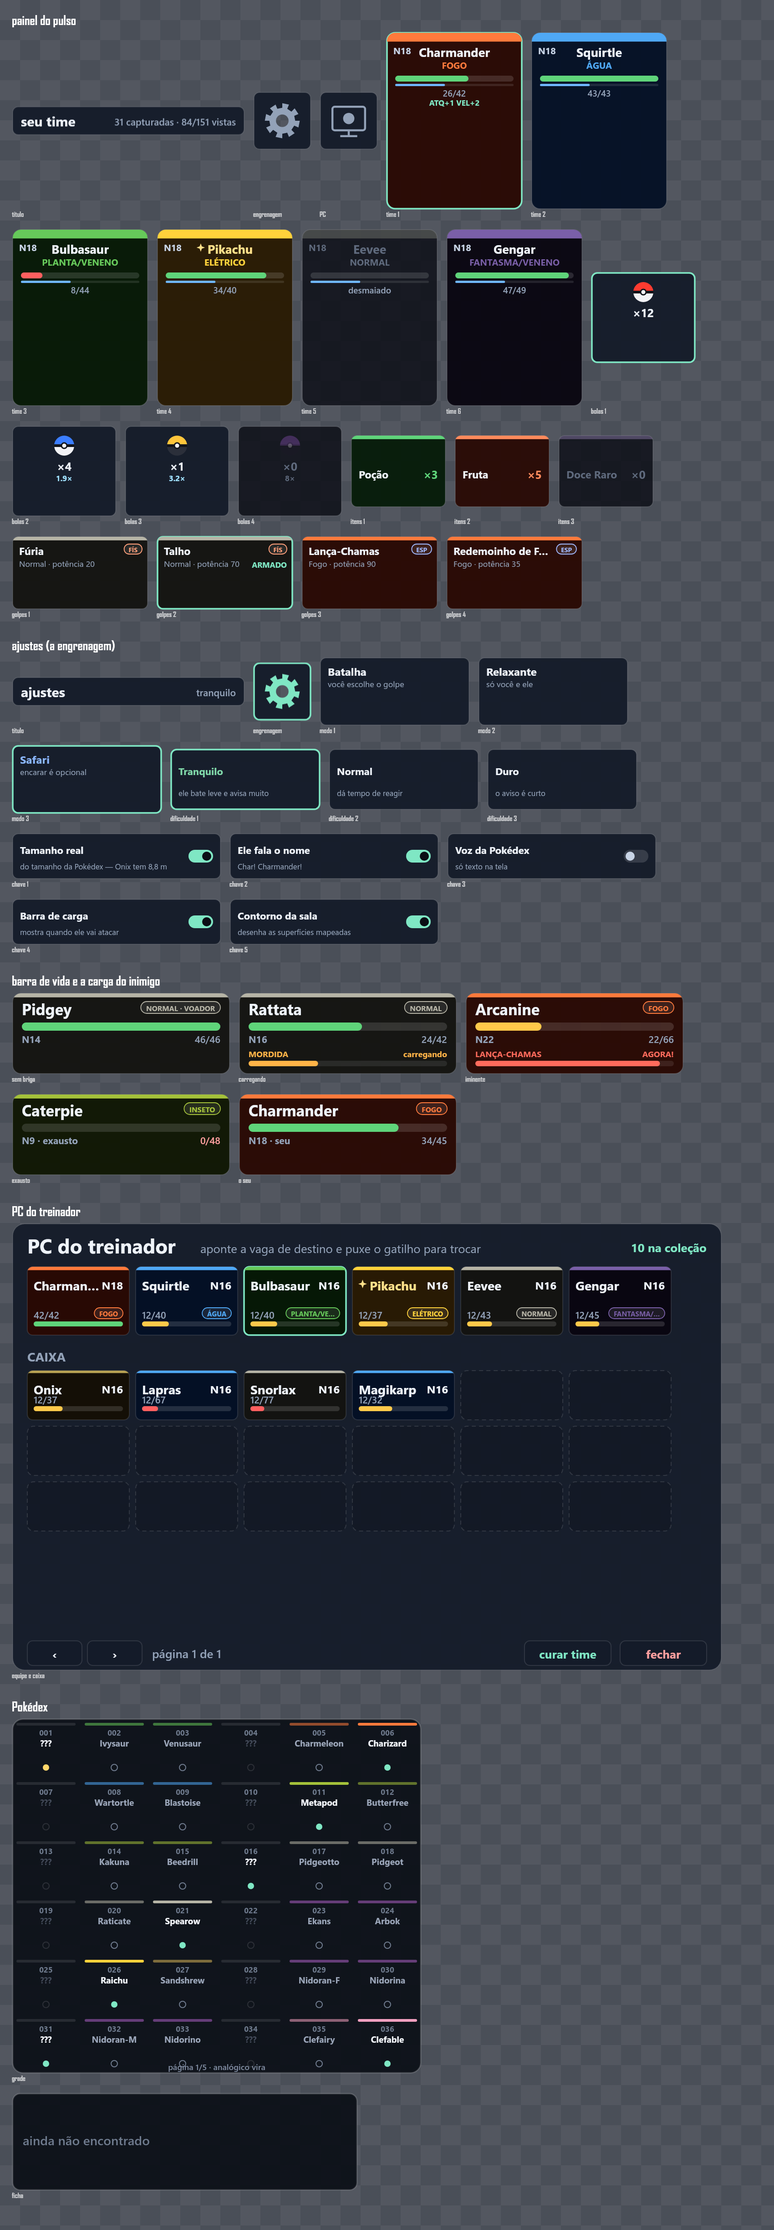
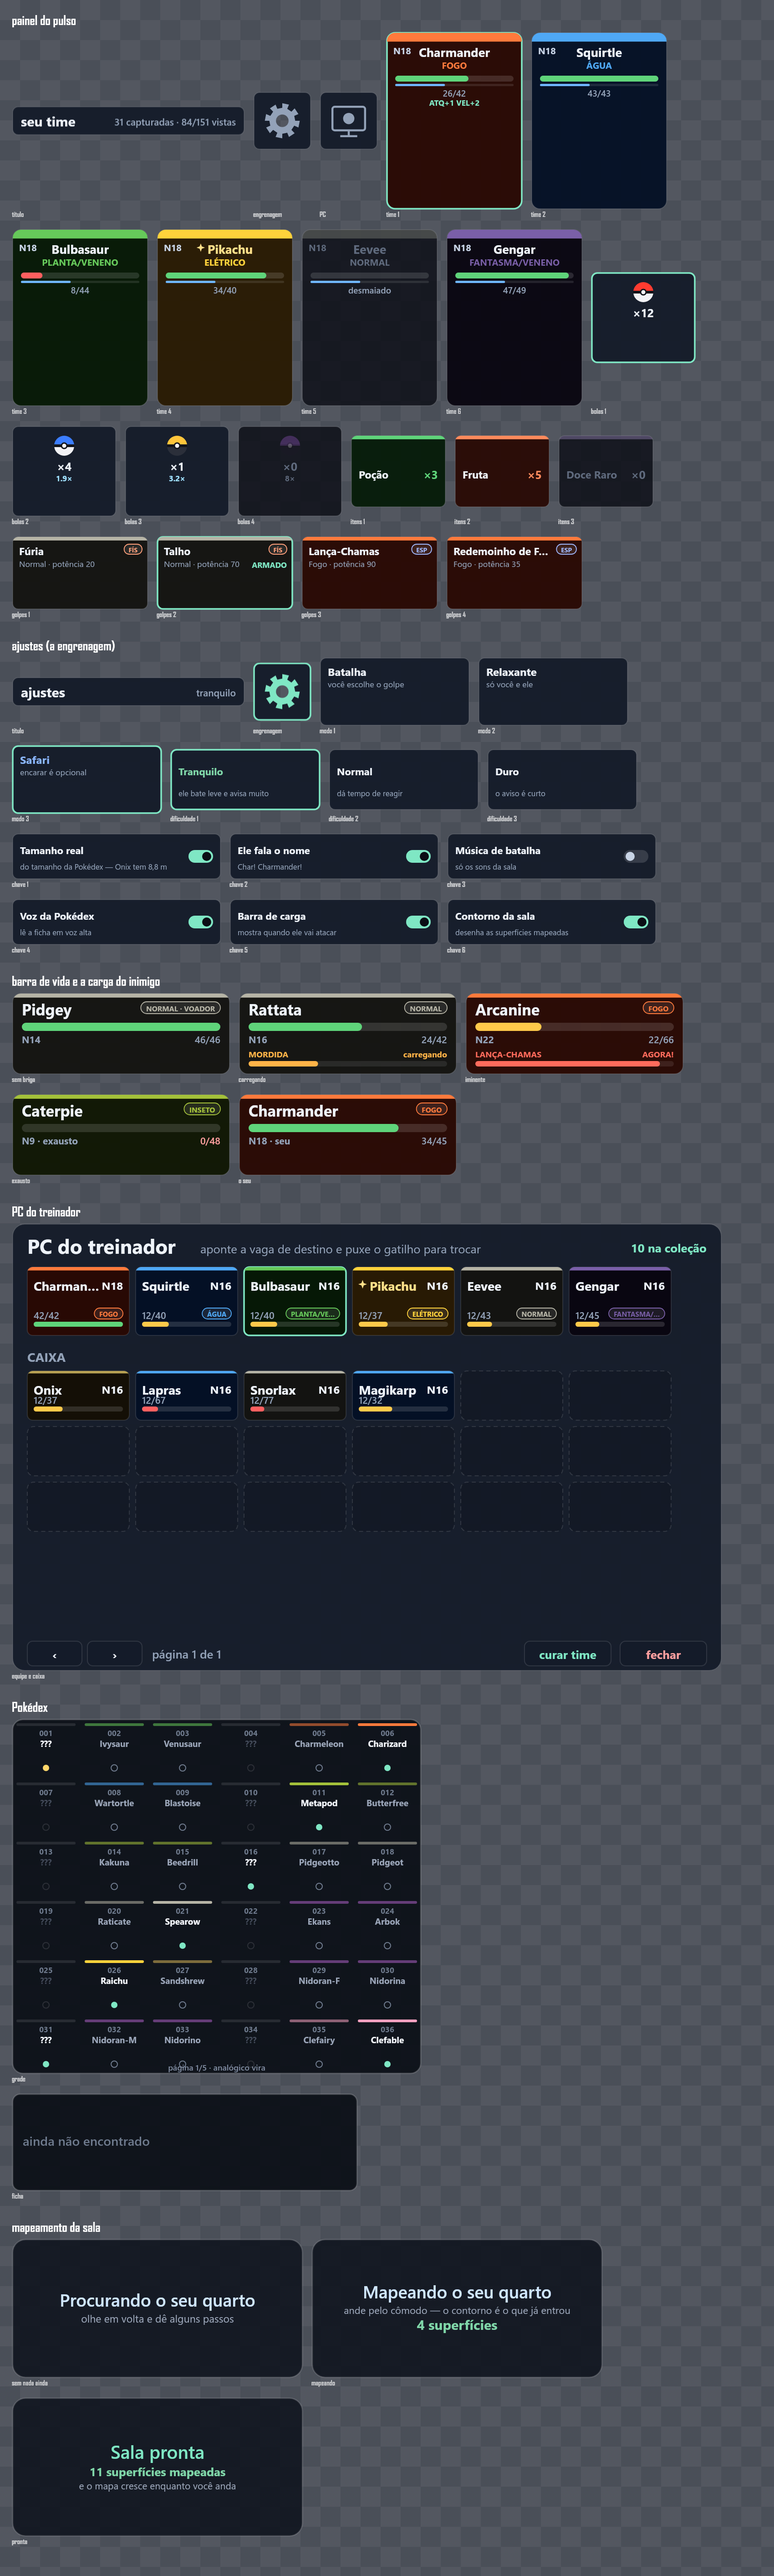
A sala antes do jogo: o mapeamento vira a abertura da sessão
O mapeamento sempre existiu e sempre foi automático — e invisível, que para
quem está de headset é o mesmo que não existir. A queixa foi literalmente "não
vi a função de escanear o ambiente": não havia o que ver além de uma linha de
contagem no painel do pulso, e o desenho das superfícies nasce desligado.

Agora a sessão começa pelo quarto. O contorno acende sozinho, cada superfície
nova dá um clique, e o número sobe na frente do jogador com um pedido para
andar pelo cômodo. Termina em seis superfícies — quem tem o Space Setup feito
passa direto, sem nem ler o aviso; quem não tem anda meia dúzia de passos, que
é o que o mapa precisa para deixar de ser um quadrado em volta da pessoa. Nada
em oito segundos também encerra: sem plano e sem chão, insistir só deixa
alguém parado olhando um zero.

A leitura da sala subiu para antes da escolha do parceiro. O quarto é o
tabuleiro, e medir enquanto você lê a tela é tempo de mapeamento de graça —
antes o laço saía cedo na escolha inicial e não media nada durante ela.

- `Sala.mostrarContorno` acende o desenho sem passar pelo interruptor da
  engrenagem, e a abertura devolve a preferência ao sair.
- `Aviso.fixar`/`soltar` seguram uma placa sem contagem regressiva, para o que
  acaba quando a coisa acaba e não quando o relógio bate.
- `npm run paineis` ganhou as três telas da abertura: o aviso é a placa mais
  estreita do jogo, e frase comprida nele não estoura — o canvas ESPREME a
[…]

diff --git a/src/game.ts b/src/game.ts
@@ -83,6 +83,21 @@ const DISTANCIA_DE_SUMICO = 9;
 /** Só a bola comum recarrega sozinha; as outras vêm de capturas. */
 const RECARGA_BOLA_COMUM = 5;
 const ALCANCE_BATALHA = 4.5;
+
+/**
+ * O mapeamento de boas-vindas, em superfícies e em segundos.
+ *
+ * Seis superfícies é pouco de propósito: quem tem o Space Setup feito entrega
+ * isso no primeiro quadro e passa direto, sem nem ler o aviso — e quem não tem
+ * anda meia dúzia de passos, que é exatamente o que o mapa precisa para deixar
+ * de ser um quadrado em volta de você. O teto de quarenta e cinco segundos
+ * existe para quem está num lugar que o headset não entende: o jogo começa
+ * assim mesmo, com o piso que acompanha o jogador.
+ */
+const SUPERFICIES_PARA_COMECAR = 6;
+const ESCANEAMENTO_MAXIMO = 45;
+/** Piso de tempo, só para o aviso dar tempo de ser lido. */
+const ESCANEAMENTO_MINIMO = 2.5;
 /** Fora de campo, cada Pokémon recupera 1 de HP a cada tanto de segundos. */
 const SEGUNDOS_POR_HP = 2.5;
 /** Perto o bastante para a mão encostar no companheiro e fazer carinho. */
@@ -197,6 +212,11 @@ export class Jogo {
   private marcaDeAlvo = new MarcaDeAlvo();
   private proximoSpawn = 2;
   private tempoLeituraSala = 0;
+  /** O mapeamento de boas-vindas, que roda uma vez no começo da sessão. */
+  private escaneando = true;
+  private tempoEscaneando = 0;
+  /** A última contagem já escrita no aviso, para não reescrever à toa. */
+  private mapeadasNoAviso = -1;
   private acumuladoCura = 0;
   private posicaoJogador = new THREE.Vector3();
 
@@ -2106,18 +2126,14 @@ export class Jogo {
     const agora = performance.now();
     this.camera.getWorldPosition(this.posicaoJogador);
 
-    // Antes de qualquer coisa: sem um parceiro você não batalha, e sem batalhar
-    // capturar é quase impossível. A escolha vem primeiro e segura o resto.
-    if (!this.dex.escolheuInicial) {
-      this.atualizarEscolhaInicial(dt, agora);
-      this.aviso.atualizar(dt, this.camera);
-      return;
-    }
-
     // A sala é remedida enquanto você anda: cada leitura carimba o chão sob os
     // seus pés e soma os planos novos que entraram no campo de visão. A cada um
     // terço de segundo é mais do que suficiente — andando depressa, isso dá uma
     // amostra a cada meio metro, e a célula do mapa tem oitenta centímetros.
+    //
+    // Isto vem antes de tudo, inclusive da escolha do parceiro: o quarto é o
+    // tabuleiro, e medir enquanto você lê a tela é tempo de mapeamento de
+    // graça.
     this.tempoLeituraSala -= dt;
     if (this.tempoLeituraSala <= 0) {
       this.tempoLeituraSala = 0.34;
@@ -2126,6 +2142,22 @@ export class Jogo {
         this.renderer.xr.getReferenceSpace(),
         this.posicaoJogador,
       );
+    }
+
+    // O quarto vem antes do jogo. Enquanto o mapa não tem o bastante, a única
+    // coisa que acontece é você andar e ver a sala se desenhar.
+    if (this.escaneando) {
+      this.atualizarEscaneamento(dt, agora);
+      this.aviso.atualizar(dt, this.camera);
+      return;
+    }
+
+    // Antes de qualquer coisa: sem um parceiro você não batalha, e sem batalhar
+    // capturar é quase impossível. A escolha vem primeiro e segura o resto.
+    if (!this.dex.escolheuInicial) {
+      this.atualizarEscolhaInicial(dt, agora);
+      this.aviso.atualizar(dt, this.camera);
+      return;
     }
 
     if (this.bonusFruta > 0) this.bonusFruta -= dt;
@@ -2184,6 +2216,89 @@ export class Jogo {
   }
 
   /** A vitrine dos iniciais, enquanto você não escolheu. */
+  /**
+   * O mapeamento de boas-vindas: a sala acesa, a contagem subindo e um pedido
+   * para você andar.
+   *
+   * O mapeamento sempre existiu e sempre foi automático — e era invisível, que
+   * é o mesmo que não existir para quem está de headset. Aqui ele só ganha
+   * corpo: o contorno acende sozinho, cada superfície nova dá um clique, e o
+   * número na sua frente é a prova de que andar está servindo para alguma
+   * coisa. Passada a abertura, o contorno volta a obedecer a engrenagem e o
+   * mapa continua crescendo calado, como sempre.
+   */
+  private atualizarEscaneamento(dt: number, agora: number) {
+    if (this.tempoEscaneando === 0) this.sala.mostrarContorno(true);
+    this.tempoEscaneando += dt;
+
+    // Sem isto a mão congela no ar durante a abertura.
+    for (const mao of this.maos) {
+      if (!mao.conectada) continue;
+      mao.amostrar(agora);
+      mao.atualizarLuva(dt);
+    }
+
+    const mapeadas = this.sala.mapeadas;
+    if (mapeadas !== this.mapeadasNoAviso) {
+      if (this.mapeadasNoAviso >= 0) audio.clique();
+      this.mapeadasNoAviso = mapeadas;
+      this.aviso.fixar(
+        mapeadas === 0
+          ? [
+              { texto: 'Procurando o seu quarto', tamanho: 38, cor: '#cfe6ff' },
+              {
+                texto: 'olhe em volta e dê alguns passos',
+                tamanho: 23,
+                cor: '#9aa5b8',
+                peso: 500,
+              },
+            ]
+          : [
+              { texto: 'Mapeando o seu quarto', tamanho: 38, cor: '#cfe6ff' },
+              {
+                texto: 'ande pelo cômodo — o contorno é o que já entrou',
+                tamanho: 22,
+                cor: '#9aa5b8',
+                peso: 500,
+              },
+              {
+                texto: `${mapeadas} ${mapeadas === 1 ? 'superfície' : 'superfícies'}`,
+                tamanho: 30,
+                cor: '#7fd6a8',
+                peso: 700,
+              },
+            ],
+      );
+    }
+
+    const bastante =
+      mapeadas >= SUPERFICIES_PARA_COMECAR && this.tempoEscaneando >= ESCANEAMENTO_MINIMO;
+    // Nada em oito segundos é resposta: o aparelho não está entregando plano
+    // nem chão, e insistir só deixa a pessoa parada olhando um número zerado.
+    const semSensores = mapeadas === 0 && this.tempoEscaneando >= 8;
+    if (!bastante && !semSensores && this.tempoEscaneando < ESCANEAMENTO_MAXIMO) return;
+
+    this.escaneando = false;
+    // O contorno volta a ser o que a engrenagem manda: a abertura tomou ele
+    // emprestado, não mudou a preferência de ninguém.
+    this.sala.mostrarContorno(this.ajustes.contornoDaSala);
+    this.aviso.soltar();
+    audio.sucesso();
+    this.aviso.mostrar(
+      [
+        { texto: 'Sala pronta', tamanho: 40, cor: '#7fe7c4' },
+        { texto: `${mapeadas} superfícies mapeadas`, tamanho: 26, cor: '#7fd6a8', peso: 700 },
+        {
+          texto: 'e o mapa cresce enquanto você anda',
+          tamanho: 21,
+          cor: '#9aa5b8',
+          peso: 500,
+        },
+      ],
+      2.6,
+    );
+  }
+
   private atualizarEscolhaInicial(dt: number, agora: number) {
     if (!this.escolha) {
       if (!this.carregandoEscolha) {

diff --git a/src/hud.ts b/src/hud.ts
@@ -109,6 +109,9 @@ export class Aviso {
   readonly placa = new Placa(0.46, 0.22, 640);
   private restante = 0;
   private duracao = 1;
+  /** Aviso fixo: fica até alguém soltar. Ver `fixar`. */
+  private preso = false;
+  private opacidadePresa = 0;
 
   constructor(private readonly cena: THREE.Object3D) {
     this.placa.malha.visible = false;
@@ -122,7 +125,39 @@ export class Aviso {
     this.placa.malha.visible = true;
   }
 
+  /**
+   * Um aviso que FICA, sem contagem regressiva.
+   *
+   * O `mostrar` serve para o que tem hora de acabar; isto é para o que dura o
+   * tempo que durar — o mapeamento da sala, que termina quando o quarto for
+   * conhecido, não quando o relógio bater. Quem fixou é quem solta.
+   *
+   * Reescrever enquanto está fixo troca o texto sem reiniciar a entrada: é o
+   * que deixa a contagem de superfícies subir sem a placa piscar a cada número.
+   */
+  fixar(linhas: LinhaTexto[], opcoes?: Parameters<Placa['escrever']>[1]) {
+    this.placa.escrever(linhas, opcoes);
+    if (!this.preso) this.opacidadePresa = 0;
+    this.preso = true;
+    this.placa.malha.visible = true;
+  }
+
+  soltar() {
+    if (!this.preso) return;
+    this.preso = false;
+    this.restante = 0;
+    this.opacidadePresa = 0;
+    this.placa.malha.visible = false;
+  }
+
   atualizar(dt: number, camera: THREE.Camera) {
+    if (this.preso) {
+      this.acompanhar(dt, camera);
+      this.opacidadePresa = Math.min(1, this.opacidadePresa + dt * 4);
+      this.placa.opacidade = this.opacidadePresa;
+      return;
+    }
+
     if (this.restante <= 0) return;
     this.restante -= dt;
     if (this.restante <= 0) {
@@ -130,12 +165,17 @@ export class Aviso {
       return;
     }
 
-    const alvo = new THREE.Vector3(0, -0.1, -0.9).applyMatrix4(camera.matrixWorld);
-    this.placa.malha.position.lerp(alvo, Math.min(1, dt * 7));
-    this.placa.malha.quaternion.copy(camera.quaternion);
+    this.acompanhar(dt, camera);
 
     const t = this.restante / this.duracao;
     this.placa.opacidade = Math.min(Math.min(1, (1 - t) * 6), Math.min(1, t * 4));
+  }
+
+  /** A placa persegue um ponto à frente do rosto, sem grudar nele. */
+  private acompanhar(dt: number, camera: THREE.Camera) {
+    const alvo = new THREE.Vector3(0, -0.1, -0.9).applyMatrix4(camera.matrixWorld);
+    this.placa.malha.position.lerp(alvo, Math.min(1, dt * 7));
+    this.placa.malha.quaternion.copy(camera.quaternion);
   }
 
   descartar() {

diff --git a/tools/paineis.ts b/tools/paineis.ts
@@ -27,7 +27,7 @@ import { createCanvas, type Canvas } from '@napi-rs/canvas';
 };
 
 const [
-  { BarraVida },
+  { BarraVida, Aviso },
   { PainelTime },
   { PainelPc },
   { PainelDex },
@@ -239,6 +239,53 @@ const secoes: Array<{ titulo: string; pecas: Peca[] }> = [];
     pecas.push({ canvas: (painel.ficha as { canvas: Canvas }).canvas, rotulo: 'ficha' });
   }
   secoes.push({ titulo: 'Pokédex', pecas });
+}
+
+// --- o mapeamento de boas-vindas ---
+//
+// As três telas da abertura, lado a lado. É a conferência que importa aqui:
+// o aviso é a placa mais estreita do jogo, e frase comprida nele não estoura —
+// o canvas ESPREME a linha para caber, que é pior, porque passa despercebido
+// no código e só aparece como texto achatado no headset.
+{
+  const cenaFalsa = { add() {}, remove() {} } as never;
+  const telas: Array<[string, unknown[]]> = [
+    [
+      'sem nada ainda',
+      [
+        { texto: 'Procurando o seu quarto', tamanho: 38, cor: '#cfe6ff' },
+        { texto: 'olhe em volta e dê alguns passos', tamanho: 23, cor: '#9aa5b8', peso: 500 },
+      ],
+    ],
+    [
+      'mapeando',
+      [
+        { texto: 'Mapeando o seu quarto', tamanho: 38, cor: '#cfe6ff' },
+        {
+          texto: 'ande pelo cômodo — o contorno é o que já entrou',
+          tamanho: 22,
+          cor: '#9aa5b8',
+          peso: 500,
+        },
+        { texto: '4 superfícies', tamanho: 30, cor: '#7fd6a8', peso: 700 },
+      ],
+    ],
+    [
+      'pronta',
+      [
+        { texto: 'Sala pronta', tamanho: 40, cor: '#7fe7c4' },
+        { texto: '11 superfícies mapeadas', tamanho: 26, cor: '#7fd6a8', peso: 700 },
+        { texto: 'e o mapa cresce enquanto você anda', tamanho: 21, cor: '#9aa5b8', peso: 500 },
+      ],
+    ],
+  ];
+
+  const pecas: Peca[] = telas.map(([rotulo, linhas]) => {
+    const aviso = espiar(new Aviso(cenaFalsa));
+    aviso.fixar(linhas as never);
+    return { canvas: (aviso.placa as { canvas: Canvas }).canvas, rotulo };
+  });
+  secoes.push({ titulo: 'mapeamento da sala', pecas });
 }
 
 // --------------------------------------------------------------- desenho

diff --git a/src/room.ts b/src/room.ts
@@ -462,10 +462,22 @@ export class Sala {
   }
 
   alternarDebug(): boolean {
-    this.mostrarDebug = !this.mostrarDebug;
-    this.grupoDebug.visible = this.mostrarDebug;
-    if (this.mostrarDebug) this.redesenharDebug();
+    this.mostrarContorno(!this.mostrarDebug);
     return this.mostrarDebug;
+  }
+
+  /**
+   * Acende ou apaga o contorno sem passar pelo interruptor da engrenagem.
+   *
+   * É o que o mapeamento de boas-vindas usa: ele precisa mostrar a sala
+   * aparecendo, e no fim devolver o desenho ao que o ajuste do jogador manda —
+   * sem nunca ter mexido no ajuste.
+   */
+  mostrarContorno(ligado: boolean) {
+    if (this.mostrarDebug === ligado) return;
+    this.mostrarDebug = ligado;
+    this.grupoDebug.visible = ligado;
+    if (ligado) this.redesenharDebug();
   }
 
   /** Contorno fino sobre cada superfície reconhecida — só para conferir a leitura. */

diff --git a/README.md b/README.md
@@ -364,6 +364,22 @@ entrou. Plano é estático no mundo, então o que se viu uma vez se guarda.
 O contador de **superfícies mapeadas** aparece no painel do pulso: é como se vê,
 de dentro do headset, que o mapeamento está funcionando.
 
+### A abertura: a sala antes do jogo
+
+O mapeamento sempre foi automático — e invisível, que para quem está de headset
+é o mesmo que não existir. Então a sessão agora **começa por ele**: o contorno
+acende sozinho, cada superfície nova dá um clique e o número sobe na sua frente,
+com um pedido para você andar pelo cômodo.
+
+Isso acaba assim que a sala tiver **seis superfícies** — quem tem o Space Setup
+feito entrega isso no primeiro quadro e passa direto, sem nem ler o aviso. Quem
+não tem anda meia dúzia de passos, que é exatamente o que o mapa precisa para
+deixar de ser um quadrado em volta de você. Nada em oito segundos encerra também:
+o aparelho não está entregando plano nem chão, e insistir só deixa a pessoa
+parada olhando um zero. Passada a abertura, o contorno volta a obedecer o
+interruptor da engrenagem — ela toma o desenho emprestado, não muda a
+preferência de ninguém.
+
 Duas consequências práticas:
 
 - **Nascer perto de você.** O sorteio do ponto de spawn só considera superfícies
